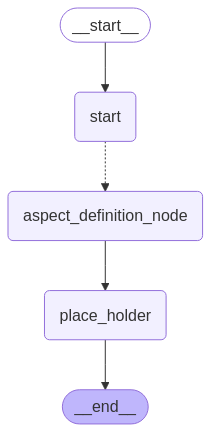
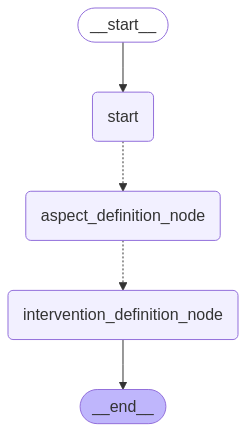
removed unecessary comments

diff --git a/src/coding/coding_exec.py b/src/coding/coding_exec.py
@@ -6,6 +6,8 @@ from langgraph.config import get_config
 import os
 import logging
 from datetime import datetime
+import glob
+import pathlib
 from dotenv import load_dotenv
 from pydantic import BaseModel, Field
 from langchain_openai import ChatOpenAI
@@ -13,7 +15,7 @@ from langchain_google_genai import ChatGoogleGenerativeAI
 from langchain_core.messages import SystemMessage, HumanMessage
 from langchain_core.runnables import Runnable, RunnableConfig
 from langgraph.graph import START, END, StateGraph
-from coding_prompt import identify_key_aspects_prompt
+from coding_prompt import identify_key_aspects_prompt, identify_intervention
 from coding_utils import visualize_graph
 
 
@@ -86,7 +88,7 @@ llm_long_context_with_structured_output = llm_long_context.with_structured_outpu
 
 runtime_config = {  "configurable": {
                     "llm_aspect_identifier_structured": llm_long_context_with_structured_output,
-                    "llm_intervention_identifier": llm_long_context_with_structured_output
+                    "llm_intervention_identifier": llm_long_context
                     }
 }
 
@@ -174,11 +176,22 @@ def aspect_definition_node(code_description: str)-> Dict[str, Any]:
         }
     }
 
-def place_holder(state: CodingState):
+def continue_to_intervention_definition(state: CodingState) -> List[Send]:
     """
-    Placeholder node to ensure the graph ends
+    Dispatches each case to the intervention_definition_node to identify interventions.
     """
-    return state
+    cases_info = state.get("cases_info", {})
+    if not cases_info:
+        logging.warning("No cases found in state.")
+        return []
+
+    logging.info("Dispatching %d cases for intervention identification", len(cases_info))
+
+    # Send each CaseInfo directly to intervention_definition_node
+    return [
+        Send("intervention_definition_node", case_info)
+        for case_info in cases_info.values()
+    ]
 
 
 coding_graph = StateGraph(CodingState)
@@ -186,13 +199,13 @@ coding_graph = StateGraph(CodingState)
 # --- Add Nodes ---
 coding_graph.add_node("start", start_llm)
 coding_graph.add_node("aspect_definition_node", aspect_definition_node)
-coding_graph.add_node("place_holder", place_holder)
+coding_graph.add_node("intervention_definition_node", intervention_definition_node)
 
 # --- Add Edges ---
 coding_graph.add_edge(START, "start")
-coding_graph.add_conditional_edges("start",continue_to_aspect_definition, ['aspect_definition_node'])
-coding_graph.add_edge("aspect_definition_node", 'place_holder')
-coding_graph.add_edge("place_holder", END)
+coding_graph.add_conditional_edges("start", continue_to_aspect_definition, ['aspect_definition_node'])
+coding_graph.add_conditional_edges("aspect_definition_node", continue_to_intervention_definition, ['intervention_definition_node'])
+coding_graph.add_edge("intervention_definition_node", END)
 
 coding_graph = coding_graph.compile()
 

diff --git a/src/coding/coding_state.py b/src/coding/coding_state.py
@@ -14,8 +14,7 @@ def merge_aspects(
         current = {}
     if new is None:
         return current
-    
-    # Simply update the dictionary with the new aspects
+
     current.update(new)
     return current
 
@@ -26,6 +25,5 @@ class CaseInfo(TypedDict):
 
 class CodingState(TypedDict):
     research_question: str
-    # Dictionary where code_description (string) is the key and value is a list of key aspects
     codes: Annotated[Dict[str, Optional[List[str]]], merge_aspects]
-    cases_info: Dict[str, CaseInfo]
+    cases_info: Annotated[Dict[str, CaseInfo], merge_case_info]

diff --git a/src/coding/coding_prompt.py b/src/coding/coding_prompt.py
@@ -43,17 +43,7 @@ Now, analyze the provided Input Code and generate the JSON output containing the
 
 identify_intervention = """
 You are a qualitative research analyst.
-
-INPUTS  
-• Research question: 
-  <research_question>
-  {research_question}  
-  </research_question>
-• Codes (for context only):
-  <codes>
-  {codes}  
-  </codes>
-• Case texts (markdown):  
+Case texts:  
   <texts>
   {texts}
   </texts>
